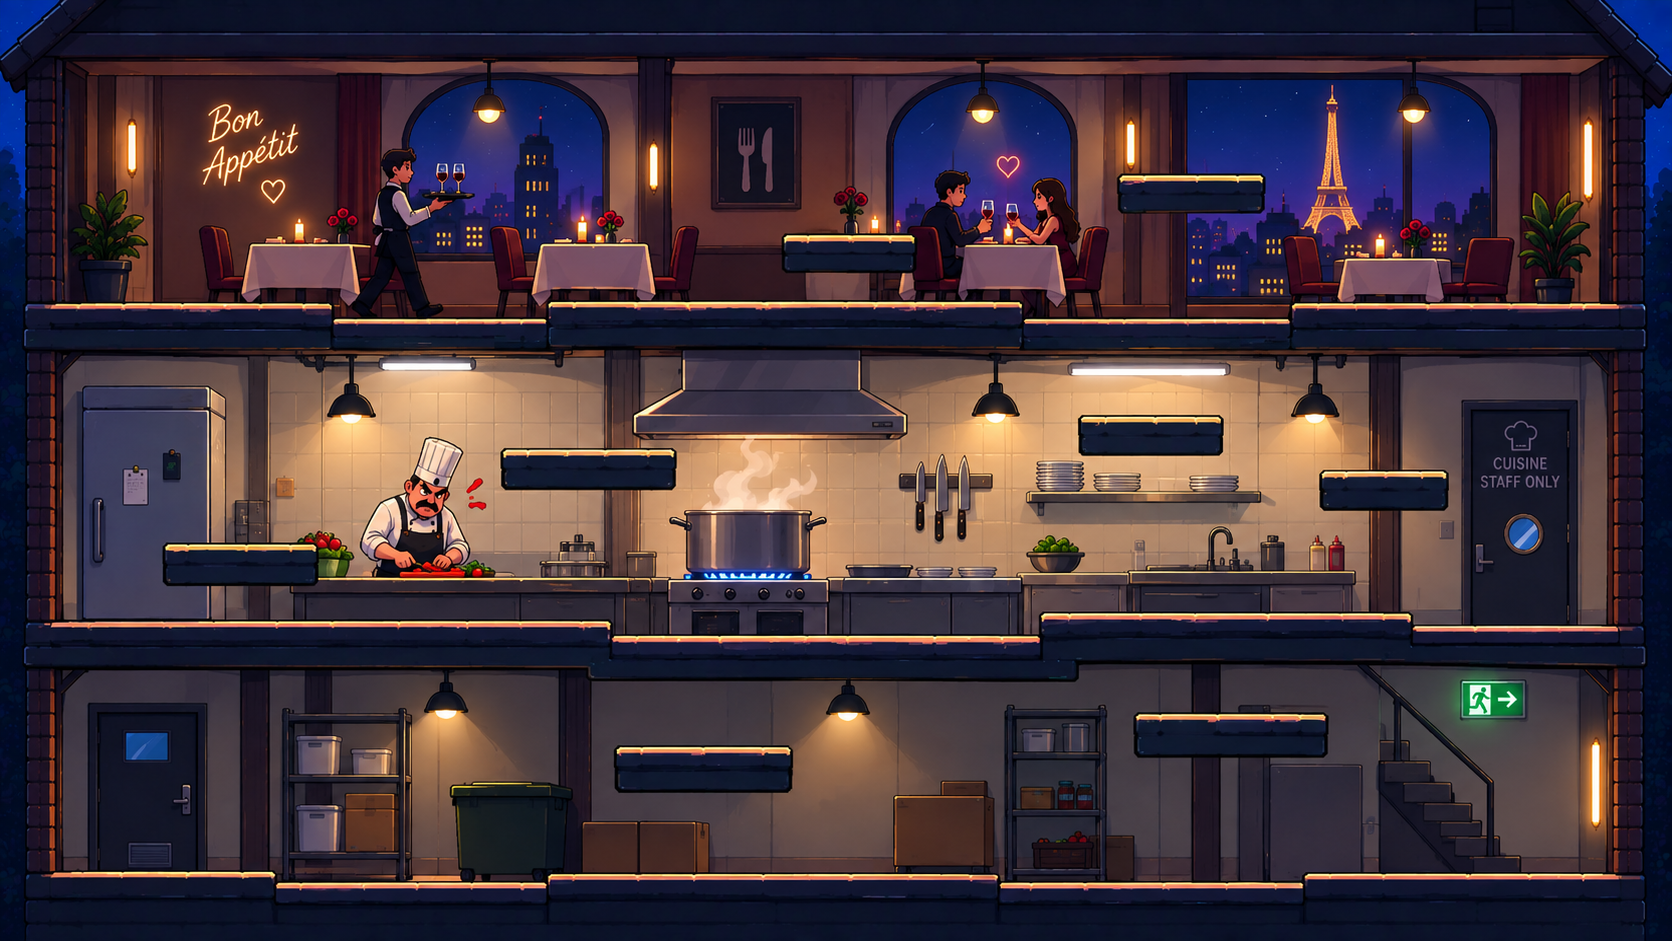
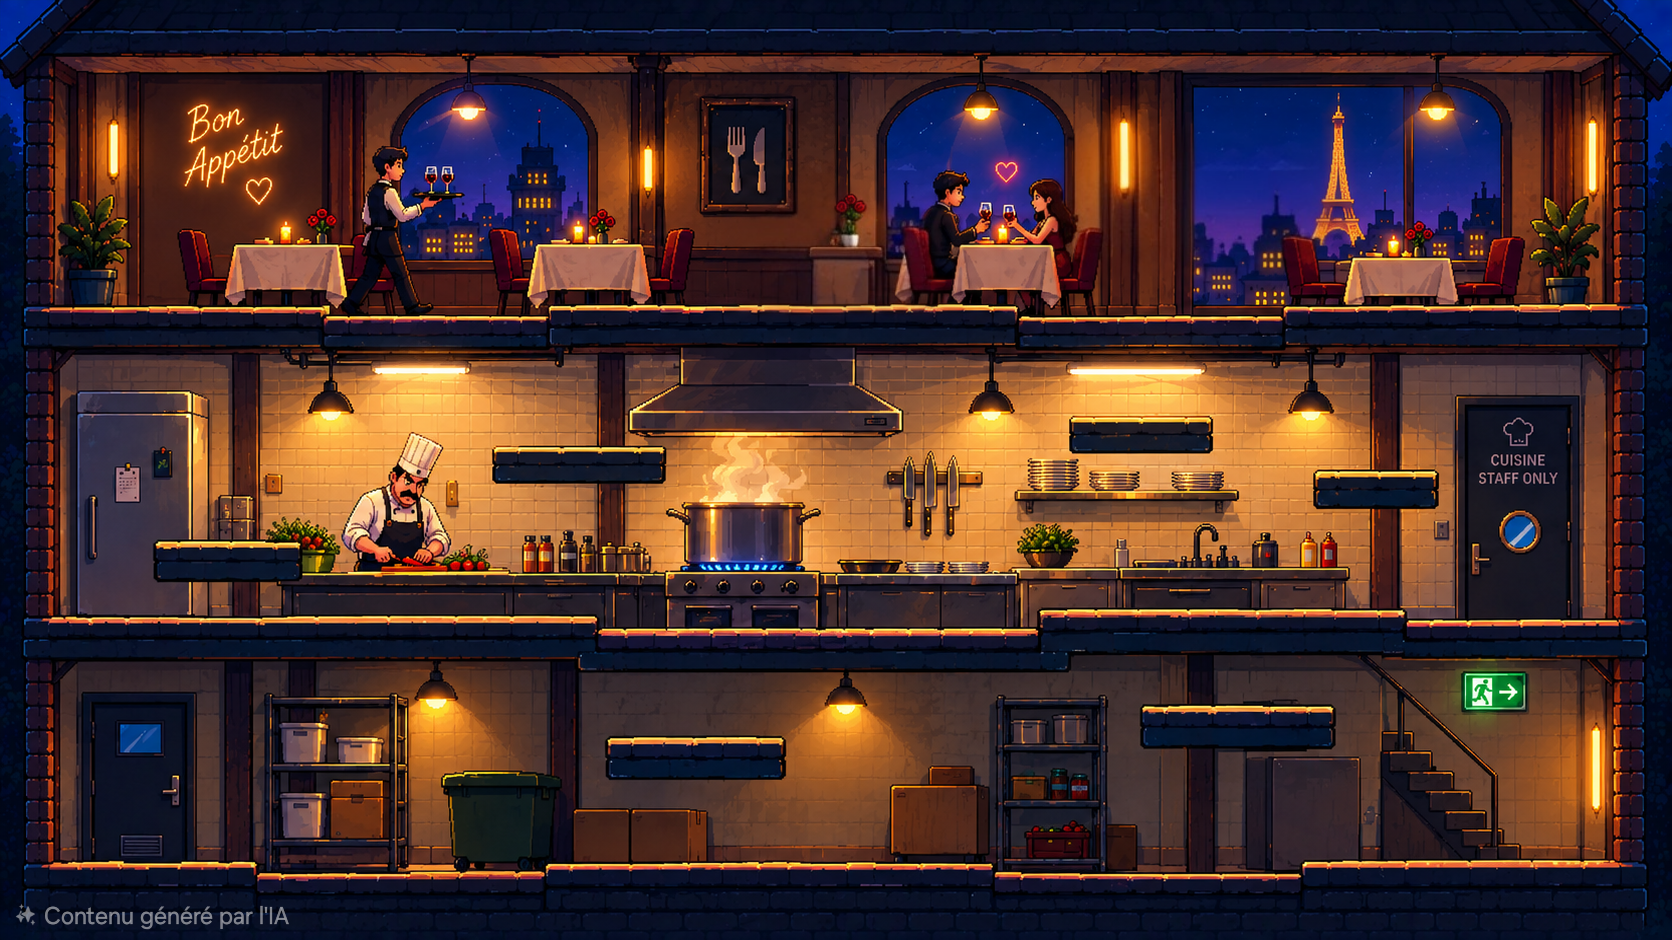
art: nouveaux fonds niveaux 3-4-5-6 + geometrie des plateformes retracee
Integration des 4 nouveaux decors (1670x940). La geometrie de collision
(sols, etages, plateformes flottantes, ancres) est relevee sur les rebords
eclaires de chaque image et alignee au pixel.

- assets/images/fonds/niveau3..6.png : nouveaux fonds
- game/maison.py : _M3.._M6 reecrits (3 etages ~y300/560/860 + flottantes)
- game/les_niveaux.py : cable (niveau 4) et somniferes (niveau 6) repositionnes ;
  influenceur retire (deja peint sur le fond)

Verifie : geometrie alignee au decor (overlays), tout accessible a la hauteur
de saut reelle, toutes les ancres referencees resolvent. Rendu en jeu non
verifie a l ecran (affichage machine en veille).

diff --git a/game/maison.py b/game/maison.py
@@ -79,98 +79,107 @@ _M2 = _trois_etages(
     },
 )
 
-# --- niveau 3 : la chambre de l'enfant (1365 x 768) ------------------------
+# Nouveaux fonds (1670 x 940) : geometrie relevee sur les rebords eclaires des
+# images. Trois etages a y~300 / y~560-615 / y~860, plus des plateformes
+# flottantes. Le sol du bas est solide, les etages sont traversables par le bas.
+
+# --- niveau 3 : la chambre de l'enfant (pastel) ----------------------------
 _M3 = dict(
-    fond="fonds/niveau3.png", largeur=1365, hauteur=768,
+    fond="fonds/niveau3.png", largeur=1670, hauteur=940,
     solides=[
-        (24, 700, 1340, 730), (0, 20, 24, 740), (1340, 20, 1365, 740), (0, 10, 1365, 24),
+        (30, 858, 1640, 890), (0, 30, 30, 905), (1640, 30, 1670, 905), (0, 14, 1670, 34),
     ],
     plateformes=[
-        (24, 235, 760), (810, 235, 1340),        # plancher etage 2 (coupe au milieu)
-        (24, 465, 1340),                          # plancher etage 1
-        (310, 215, 470), (620, 235, 770),         # plateformes etage 2
-        (100, 430, 260), (400, 380, 580), (660, 415, 820),   # plateformes etage 1
-        (980, 320, 1150), (1230, 320, 1340),
-        (880, 660, 1130),                         # plateforme RDC droite
-        (180, 560, 400), (940, 560, 1160),        # marches intermediaires RDC -> etage 1
+        (40, 300, 1640),                                  # etage haut (chambre)
+        (30, 558, 545), (545, 576, 1010), (1010, 556, 1420),   # etage milieu
+        (150, 492, 370), (500, 444, 700), (800, 492, 995), (1250, 410, 1470),  # flottantes
     ],
     ancres={
-        "salon": (300, 700), "cuisine": (500, 700), "salle_droite": (1000, 660),
-        "gamelle_bas": (1000, 660), "canape": (1000, 660), "tv": (700, 700),
-        "frigo": (180, 430), "sdb": (490, 380), "chatterie": (1060, 320),
-        "planche_sdb": (490, 380), "planche_centre": (740, 415),
-        "planche_milieu_g": (180, 430), "planche_milieu_d": (1290, 320),
-        "planche_salon": (740, 415), "arbre_bas": (1060, 320), "arbre_haut": (390, 215),
-        "chambre": (200, 235), "lit": (200, 235), "couloir": (690, 235),
-        "armoire": (390, 215), "salle_haut": (1000, 235), "paniere": (1010, 235),
-        "aquarium": (1010, 200),
+        "salon": (300, 858), "cuisine": (560, 858), "salle_droite": (1080, 556),
+        "gamelle_bas": (900, 858), "canape": (300, 858), "tv": (770, 858),
+        "frigo": (250, 492), "sdb": (300, 558), "chatterie": (1330, 556),
+        "planche_sdb": (600, 444), "planche_centre": (890, 492),
+        "planche_milieu_g": (250, 492), "planche_milieu_d": (1350, 410),
+        "planche_salon": (770, 576), "arbre_bas": (1300, 556), "arbre_haut": (1350, 410),
+        "chambre": (250, 300), "lit": (200, 300), "couloir": (770, 300),
+        "armoire": (1250, 300), "salle_haut": (1350, 300), "paniere": (1300, 300),
+        "aquarium": (1130, 556),
     },
 )
 
-# --- niveau 4 : l'appart de l'influenceur (1672 x 941) ----------------------
-_M4 = _trois_etages(
-    "fonds/niveau4.png", 1672, 941, sols=(870, 575, 300),
-    plats=[
-        (400, 195, 580), (700, 195, 900), (930, 195, 1100), (1180, 195, 1360),
-        (330, 435, 500), (600, 435, 760), (1040, 435, 1200), (1300, 490, 1480),
-        (280, 512, 450), (500, 555, 720), (860, 555, 1050),
-        # tremplins pour monter du rez-de-chaussee a l'etage 1
-        (150, 730, 350), (550, 730, 760), (960, 730, 1170), (1250, 720, 1400),
-        (350, 650, 560), (760, 650, 970), (1100, 650, 1310),
+# --- niveau 4 : l'appart de l'influenceur -----------------------------------
+_M4 = dict(
+    fond="fonds/niveau4.png", largeur=1672, hauteur=940,
+    solides=[
+        (30, 858, 1642, 890), (0, 30, 30, 905), (1642, 30, 1672, 905), (0, 14, 1672, 34),
+    ],
+    plateformes=[
+        (30, 297, 1642),                                  # etage haut
+        (55, 544, 486), (491, 578, 855), (856, 556, 1180),
+        (1186, 578, 1421), (1425, 556, 1615),             # etage milieu
+        (366, 425, 519), (730, 425, 853), (543, 524, 726),
+        (1201, 486, 1340), (579, 765, 742),               # flottantes
     ],
     ancres={
-        "salon": (1100, 870), "cuisine": (500, 870), "salle_droite": (1400, 870),
-        "gamelle_bas": (300, 870), "canape": (1100, 870), "tv": (1350, 870),
-        "frigo": (400, 870), "sdb": (200, 575), "chatterie": (1400, 575),
-        "planche_sdb": (410, 435), "planche_centre": (680, 435),
-        "planche_milieu_g": (1120, 435), "planche_milieu_d": (1390, 490),
-        "planche_salon": (610, 555), "arbre_bas": (1400, 490), "arbre_haut": (1270, 195),
-        "chambre": (200, 300), "lit": (200, 300), "couloir": (800, 300),
-        "armoire": (490, 195), "salle_haut": (1270, 300), "paniere": (1270, 195),
+        "salon": (1150, 858), "cuisine": (500, 858), "salle_droite": (1520, 858),
+        "gamelle_bas": (300, 858), "canape": (1150, 858), "tv": (1350, 858),
+        "frigo": (400, 858), "sdb": (180, 544), "chatterie": (1520, 556),
+        "planche_sdb": (440, 425), "planche_centre": (640, 524),
+        "planche_milieu_g": (1000, 556), "planche_milieu_d": (1300, 578),
+        "planche_salon": (670, 578), "arbre_bas": (1520, 556), "arbre_haut": (790, 425),
+        "chambre": (200, 297), "lit": (200, 297), "couloir": (640, 297),
+        "armoire": (490, 297), "salle_haut": (1300, 297), "paniere": (1300, 297),
     },
 )
 
-# --- niveau 5 : la cuisine du restaurant (1672 x 941) -----------------------
-_M5 = _trois_etages(
-    "fonds/niveau5.png", 1672, 941, sols=(830, 600, 320),
-    plats=[
-        (1000, 320, 1200),                                        # haut
-        (120, 560, 320), (470, 470, 670), (1140, 430, 1340), (1360, 470, 1560),
-        (300, 700, 500), (760, 720, 960), (1150, 680, 1350),
+# --- niveau 5 : la cuisine du restaurant ------------------------------------
+_M5 = dict(
+    fond="fonds/niveau5.png", largeur=1672, hauteur=940,
+    solides=[
+        (30, 864, 1642, 894), (0, 30, 30, 905), (1642, 30, 1672, 905), (0, 14, 1672, 34),
+    ],
+    plateformes=[
+        (40, 306, 1630),                                  # etage haut (salle)
+        (40, 618, 596), (599, 630, 1035), (1042, 611, 1620),   # etage milieu (cuisine)
+        (494, 448, 663), (1071, 418, 1208), (1317, 473, 1436),
+        (156, 544, 299), (303, 572, 544), (668, 572, 971),
+        (1123, 568, 1346), (608, 739, 782), (1143, 708, 1332),  # flottantes
     ],
     ancres={
-        "salon": (600, 830), "cuisine": (400, 600), "salle_droite": (1400, 830),
-        "gamelle_bas": (700, 600), "canape": (400, 700), "tv": (1250, 680),
-        "frigo": (200, 600), "sdb": (220, 560), "chatterie": (1450, 600),
-        "planche_sdb": (570, 470), "planche_centre": (860, 720),
-        "planche_milieu_g": (1240, 430), "planche_milieu_d": (1460, 470),
-        "planche_salon": (400, 700), "arbre_bas": (1250, 680), "arbre_haut": (1100, 320),
-        "chambre": (400, 320), "lit": (400, 320), "couloir": (900, 320),
-        "armoire": (1100, 320), "salle_haut": (1300, 320), "paniere": (1300, 320),
+        "salon": (300, 864), "cuisine": (500, 864), "salle_droite": (1400, 864),
+        "gamelle_bas": (800, 864), "canape": (300, 618), "tv": (1250, 611),
+        "frigo": (150, 864), "sdb": (220, 544), "chatterie": (1450, 611),
+        "planche_sdb": (570, 448), "planche_centre": (820, 630),
+        "planche_milieu_g": (1140, 418), "planche_milieu_d": (1370, 473),
+        "planche_salon": (450, 572), "arbre_bas": (1230, 568), "arbre_haut": (1140, 306),
+        "chambre": (400, 306), "lit": (400, 306), "couloir": (900, 306),
+        "armoire": (1100, 306), "salle_haut": (1300, 306), "paniere": (1300, 306),
     },
 )
 
-# --- niveau 6 : le cabinet medical (1672 x 941) -----------------------------
-_M6 = _trois_etages(
-    "fonds/niveau6.png", 1672, 941, sols=(870, 620, 300),
-    plats=[
-        (1050, 195, 1250),
-        (60, 445, 230), (770, 415, 970), (1050, 415, 1220), (1360, 460, 1540),
-        (60, 515, 230), (500, 575, 680), (270, 705, 490), (770, 745, 1000), (1150, 705, 1330),
-        # tremplins pour monter, et la petite plateforme des somniferes,
-        # etroite et pile au-dessus du medecin (image x~880) pour qu'ils tombent dessus
-        (900, 550, 1080), (1080, 480, 1250),
-        (825, 430, 935),
+# --- niveau 6 : le cabinet medical ------------------------------------------
+_M6 = dict(
+    fond="fonds/niveau6.png", largeur=1670, hauteur=940,
+    solides=[
+        (30, 866, 1640, 896), (0, 30, 30, 905), (1640, 30, 1670, 905), (0, 14, 1670, 34),
+    ],
+    plateformes=[
+        (40, 302, 1620), (778, 197, 1043),                # etage haut + comptoir
+        (40, 600, 300), (292, 614, 870), (1107, 606, 1620),    # etage milieu
+        (278, 406, 368), (717, 405, 870), (1122, 405, 1279),
+        (158, 496, 295), (929, 509, 1021), (636, 538, 796),
+        (1344, 538, 1487), (932, 542, 1218), (56, 596, 289), (873, 596, 1103),
+        (467, 687, 627), (1194, 705, 1347), (825, 747, 962), (418, 806, 560),  # flottantes
     ],
     ancres={
-        "salon": (700, 870), "cuisine": (400, 870), "salle_droite": (1400, 870),
-        "gamelle_bas": (900, 870), "canape": (400, 705), "tv": (1240, 705),
-        "frigo": (200, 620), "sdb": (150, 445), "chatterie": (1450, 620),
-        "planche_centre": (880, 745), "planche_milieu_g": (1140, 415),
-        "planche_milieu_d": (870, 415), "planche_salon": (590, 575),
-        "arbre_bas": (1450, 460), "arbre_haut": (1150, 195),
-        "chambre": (200, 300), "lit": (200, 300), "couloir": (700, 300),
-        "armoire": (1150, 195), "salle_haut": (1400, 300), "paniere": (1400, 300),
+        "salon": (400, 866), "cuisine": (700, 866), "salle_droite": (1250, 866),
+        "gamelle_bas": (700, 866), "canape": (400, 614), "tv": (1250, 606),
+        "frigo": (200, 600), "sdb": (220, 496), "chatterie": (1450, 606),
+        "planche_centre": (700, 614), "planche_milieu_g": (1000, 542),
+        "planche_milieu_d": (1200, 405), "planche_salon": (600, 596),
+        "arbre_bas": (1450, 606), "arbre_haut": (1150, 302),
+        "chambre": (200, 302), "lit": (200, 302), "couloir": (700, 302),
+        "armoire": (1150, 302), "salle_haut": (1400, 302), "paniere": (1400, 302),
     },
 )
 

diff --git a/game/les_niveaux.py b/game/les_niveaux.py
@@ -113,8 +113,8 @@ NIVEAUX = [
         message_mort="Electrocute en direct. Trois cent mille vues.",
         message_attente="Le cable est encore bien range. Fais tomber la ring light.",
         depart="salon",
-        perso=dict(image="influenceur", pos="salon"),
-        piege=(1540, 270), piege_image="aucune", piege_anime="cable_anime", piege_largeur=130, piege_direct=True, camera=True, libelle_piege="Se prendre dans le cable",
+        # l'influenceur est deja peint sur le fond (a son bureau) : pas de sprite
+        piege=(1560, 295), piege_image="aucune", piege_anime="cable_anime", piege_largeur=130, piege_direct=True, camera=True, libelle_piege="Se prendre dans le cable",
         pousseurs=[
             dict(min="cuisine", max="salle_droite", vitesse=3.0, force=18),
             dict(min="planche_milieu_g", max="planche_milieu_d", vitesse=2.8),
@@ -160,7 +160,7 @@ NIVEAUX = [
         ],
                 piege="planche_centre", piege_image="aucune", piege_largeur=200, piege_hauteur=4,
         faux_pieges={
-            "so": dict(pos=(880, 434), declenchement="action", effet="endort",
+            "so": dict(pos=(760, 400), declenchement="action", effet="endort",
                        image="somniferes", texte="Tu renverses les somniferes sur le medecin. Il s endort."),
             "s": dict(pos="frigo", declenchement="action", effet="soin",
                       image="scalpel", cause="le scalpel",
